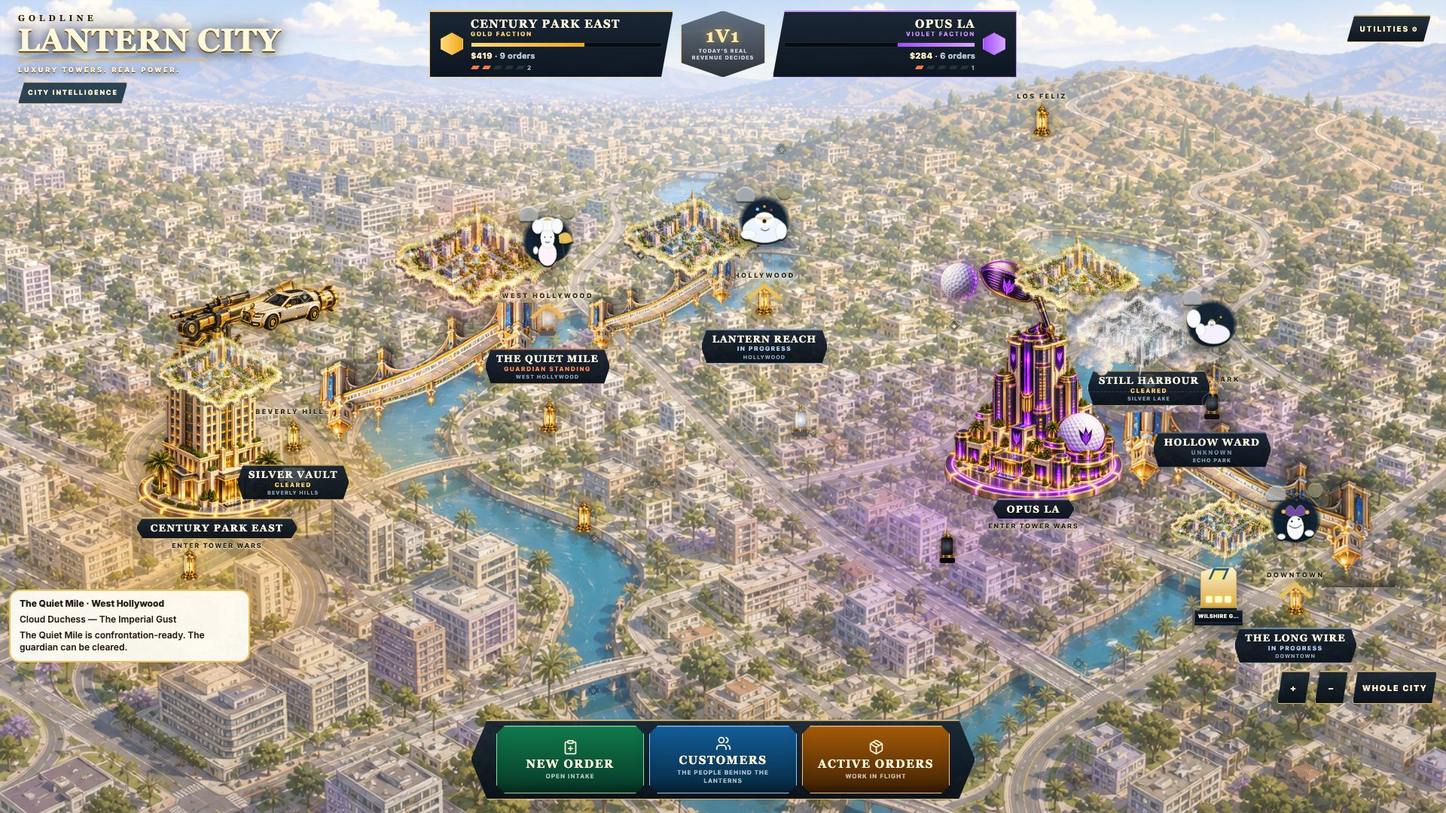
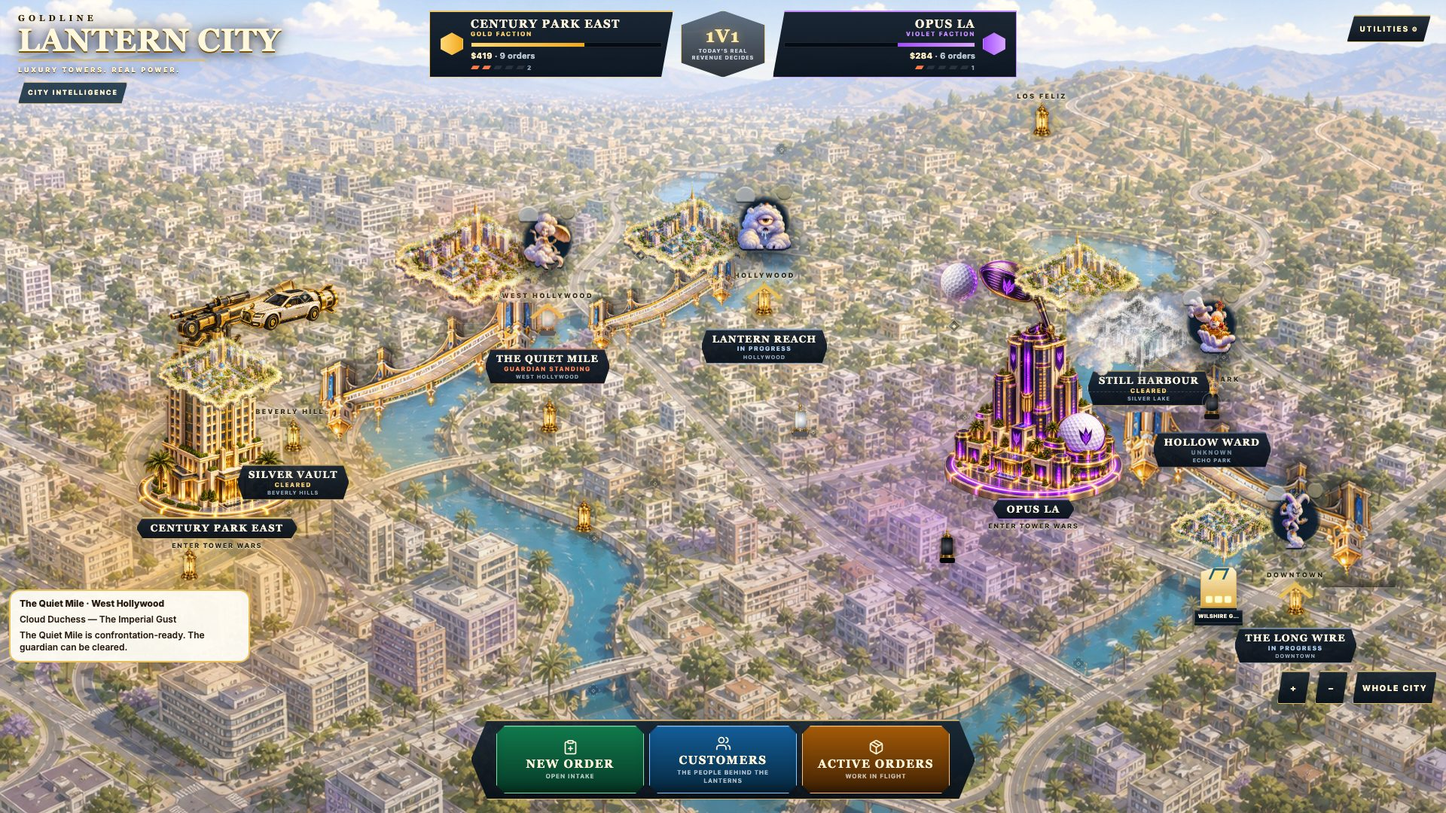
Give the guardians their approved faces
The territory board's ugliest objects were the guardians: hand-rolled SVG
cloud shapes that rendered as black-and-white blobs sitting on top of the
islands. The approved artwork for all six characters was already in the
repo — `guardians/approved-asset-sheet.png`, matching the six ids in
shared/goldlineGuardians.ts — and was referenced by nothing.

Nothing was redrawn or regenerated. The sheet was separated:

- The six figures share cloud edges, so straight-line cuts sliced a
  neighbour's puff off mid-shape. Each boundary is instead a minimum-alpha
  vertical seam found by DP through the window between two label-plate
  centres, so the cut follows the thinnest real gap between figures.
- Fragments left inside a crop that are not attached to the figure are
  dropped by connected-component size. The component pass runs at 1/8
  scale for speed, so its mask is dilated before use — without that the
  silhouettes came out in 8px stair-steps.
- Cropped above y=392 rather than y=398, because the label plates start at
  400 and their top gold edge was bleeding into Thunder King.
- Alpha snapped near-opaque to opaque and near-clear to clear, colour
  untouched. No label plates ship.

They stay ACTORS rather than becoming stills: phase, defeat and ghost
states are still carried on the wrapper, and --look-x / --look-y still
steer the figure as a small parallax drift, which is the one thing the
SVG did that a portrait cannot. A guardian with no portrait renders
[…]

diff --git a/client/src/components/goldline/GuardianActor.tsx b/client/src/components/goldline/GuardianActor.tsx
@@ -1,15 +1,42 @@
 /**
- * Procedural cloud guardian.
+ * Cloud guardian, drawn from the approved artwork.
  *
- * These are animated actors, not portraits. Silhouettes follow the approved
- * Goldline guardian sheet: Thunder King, Cloud Duchess, Sleepy One-Eye,
- * Tiny Emperor, Gust Jester, Drizzle Detective.
+ * WHY THIS STOPPED BEING SVG
+ *
+ * These were hand-rolled SVG cloud shapes standing in for art that already
+ * existed. On the territory board they read as black-and-white blobs — the
+ * ugliest objects on the screen — while the approved sheet with all six
+ * characters sat in the repo, referenced by nothing.
+ *
+ * The portraits below are cut from that sheet
+ * (`guardians/approved-asset-sheet.png`, seam-carved apart along the gaps
+ * between figures, alpha cleaned, no label plates). Nothing was redrawn or
+ * regenerated: this is the approved art, separated.
+ *
+ * They remain ACTORS, not stills. Phase, defeat and ghost states are still
+ * carried by classes on the wrapper, and `--look-x` / `--look-y` still steer
+ * the figure — as a small parallax drift rather than as moving eyeballs, which
+ * is the one thing the SVG could do that a portrait cannot.
  */
 
 import type { CSSProperties } from "react";
 import type { GuardianDefinition, GuardianId } from "@shared/goldlineGuardians";
 import { guardianById } from "@shared/goldlineGuardians";
 import type { GuardianPhase } from "@shared/goldlineGuardianEngine";
+
+/**
+ * The cut portraits, keyed by the same ids `shared/goldlineGuardians.ts`
+ * defines. A guardian with no portrait renders nothing rather than a
+ * substitute, so a missing cut is visible instead of silently wrong.
+ */
+const GUARDIAN_ART: Record<string, string> = {
+  thunder_king: "/assets/goldline/guardians/v1/thunder_king.png",
+  cloud_duchess: "/assets/goldline/guardians/v1/cloud_duchess.png",
+  sleepy_one_eye: "/assets/goldline/guardians/v1/sleepy_one_eye.png",
+  tiny_emperor: "/assets/goldline/guardians/v1/tiny_emperor.png",
+  gust_jester: "/assets/goldline/guardians/v1/gust_jester.png",
+  drizzle_detective: "/assets/goldline/guardians/v1/drizzle_detective.png",
+};
 
 export function GuardianActor({
   guardianId,
@@ -45,14 +72,16 @@ export function GuardianActor({
       } as CSSProperties}
       aria-hidden
     >
-      <svg viewBox="0 0 160 160" className="gl-guardian-svg" role="presentation">
-        {guardian.id === "tiny_emperor" ? <TinyEmperorMark /> : null}
-        {guardian.id === "thunder_king" ? <ThunderKingMark /> : null}
-        {guardian.id === "cloud_duchess" ? <CloudDuchessMark /> : null}
-        {guardian.id === "sleepy_one_eye" ? <SleepyOneEyeMark /> : null}
-        {guardian.id === "gust_jester" ? <GustJesterMark /> : null}
-        {guardian.id === "drizzle_detective" ? <DrizzleDetectiveMark /> : null}
-      </svg>
+      {GUARDIAN_ART[guardian.id] ? (
+        <img
+          className="gl-guardian-art"
+          src={GUARDIAN_ART[guardian.id]}
+          alt=""
+          loading="lazy"
+          decoding="async"
+          draggable={false}
+        />
+      ) : null}
       <span className="gl-guardian-wisps" />
     </div>
   );
@@ -60,124 +89,4 @@ export function GuardianActor({
 
 export function guardianAriaLabel(guardian: GuardianDefinition, phase: string) {
   return `${guardian.name}, ${guardian.epithet}. ${guardian.reducedMotionFallback} Currently ${phase.replace(/_/g, " ")}.`;
-}
-
-function ThunderKingMark() {
-  return (
-    <g className="mark-thunder">
-      <ellipse cx="80" cy="96" rx="52" ry="38" className="cloud-body" />
-      <ellipse cx="46" cy="78" rx="24" ry="20" className="cloud-puff" />
-      <ellipse cx="116" cy="80" rx="26" ry="22" className="cloud-puff" />
-      <path d="M62 34 l10 16 h-8 l16 22 -20 -18 h11 z" className="gold-prop crown" />
-      <path d="M54 62 l16 6 -14 5" className="gold-prop brow" />
-      <path d="M106 62 l-16 6 14 5" className="gold-prop brow" />
-      <circle cx="62" cy="76" r="8" className="eye-white" />
-      <circle cx="98" cy="76" r="8" className="eye-white" />
-      <circle cx="62" cy="76" r="3.6" className="eye-pupil" />
-      <circle cx="98" cy="76" r="3.6" className="eye-pupil" />
-      <path d="M58 94 q22 20 44 0" className="mouth roar" />
-      <ellipse cx="24" cy="112" rx="18" ry="16" className="cloud-fist" />
-      <ellipse cx="136" cy="108" rx="20" ry="17" className="cloud-fist" />
-      <rect x="18" y="118" width="14" height="5" rx="2" className="gold-prop band" />
-      <rect x="128" y="114" width="16" height="5" rx="2" className="gold-prop band" />
-      <path d="M134 82 l10 26" className="gold-prop bolt" />
-    </g>
-  );
-}
-
-function CloudDuchessMark() {
-  return (
-    <g className="mark-duchess">
-      <ellipse cx="80" cy="118" rx="26" ry="34" className="cloud-body dress" />
-      <ellipse cx="80" cy="72" rx="20" ry="30" className="cloud-body face" />
-      <ellipse cx="80" cy="32" rx="32" ry="20" className="cloud-puff hair" />
-      <ellipse cx="52" cy="40" rx="16" ry="20" className="cloud-puff hair" />
-      <ellipse cx="108" cy="38" rx="16" ry="22" className="cloud-puff hair" />
-      <path d="M68 22 q12 -12 24 0" className="gold-prop tiara" />
-      <circle cx="72" cy="70" r="4.2" className="eye-white" />
-      <circle cx="90" cy="70" r="4.2" className="eye-white" />
-      <circle cx="72" cy="70" r="1.8" className="eye-pupil" />
-      <circle cx="90" cy="70" r="1.8" className="eye-pupil" />
-      <path d="M74 84 q6 3 12 0" className="mouth smug" />
-      <path d="M112 64 q32 -22 40 18 q-24 10 -38 4" className="gold-prop parasol" />
-      <line x1="122" y1="78" x2="128" y2="124" className="gold-prop stem" />
-      <ellipse cx="46" cy="108" rx="7" ry="11" className="cloud-puff hand" />
-    </g>
-  );
-}
-
-function SleepyOneEyeMark() {
-  return (
-    <g className="mark-sleepy">
-      <ellipse cx="80" cy="104" rx="62" ry="38" className="cloud-body colossus" />
-      <ellipse cx="34" cy="118" rx="22" ry="14" className="cloud-puff hand" />
-      <ellipse cx="128" cy="108" rx="16" ry="24" className="cloud-puff" />
-      <ellipse cx="80" cy="74" rx="28" ry="20" className="eye-white huge" />
-      <path d="M54 68 q26 22 52 0" className="lid" fill="#d7c9a4" opacity="0.55" />
-      <circle cx="80" cy="80" r="5.5" className="eye-pupil huge" />
-      <path d="M70 102 q12 12 24 0" className="mouth snore" />
-      <circle cx="60" cy="46" r="5" className="bird" />
-      <circle cx="80" cy="38" r="4.2" className="bird two" />
-      <circle cx="100" cy="48" r="3.8" className="bird three" />
-    </g>
-  );
-}
-
-function TinyEmperorMark() {
-  return (
-    <g className="mark-emperor">
-      <ellipse cx="86" cy="108" rx="46" ry="28" className="cloud-fist command-throne" />
-      <ellipse cx="48" cy="96" rx="14" ry="18" className="cloud-puff thumb" />
-      <ellipse cx="28" cy="64" rx="20" ry="26" className="cloud-fist command" />
-      <ellipse cx="80" cy="78" rx="11" ry="10" className="cloud-body tiny" />
-      <path d="M74 66 l6 7 6 -7" className="gold-prop micro-crown" />
-      <circle cx="77" cy="76" r="1.8" className="eye-white" />
-      <circle cx="83" cy="76" r="1.8" className="eye-white" />
-      <circle cx="77" cy="76" r="0.9" className="eye-pupil" />
-      <circle cx="83" cy="76" r="0.9" className="eye-pupil" />
-      <path d="M76 82 h8" className="mouth shout" />
-      <line x1="88" y1="80" x2="104" y2="62" className="gold-prop scepter" />
-      <circle cx="106" cy="60" r="3" className="gold-prop" />
-    </g>
-  );
-}
-
-function GustJesterMark() {
-  return (
-    <g className="mark-jester">
-      <ellipse cx="80" cy="102" rx="24" ry="34" className="cloud-body lanky" />
-      <path d="M48 58 q16 -36 32 -4 q16 -36 32 6 q-16 14 -32 4 q-16 14 -32 -6" className="gold-prop cap" />
-      <circle cx="46" cy="56" r="6" className="gold-prop bell" />
-      <circle cx="114" cy="58" r="6" className="gold-prop bell" />
-      <circle cx="68" cy="82" r="6.5" className="eye-white" />
-      <circle cx="92" cy="80" r="6.5" className="eye-white" />
-      <circle cx="70" cy="84" r="2.8" className="eye-pupil" />
-      <circle cx="90" cy="78" r="2.8" className="eye-pupil" />
-      <path d="M62 96 q18 16 36 -2" className="mouth grin" />
-      <ellipse cx="40" cy="128" rx="11" ry="8" className="cloud-puff" />
-      <ellipse cx="120" cy="118" rx="13" ry="9" className="cloud-puff" />
-    </g>
-  );
-}
-
-function DrizzleDetectiveMark() {
-  return (
-    <g className="mark-detective">
-      <ellipse cx="80" cy="104" rx="36" ry="28" className="cloud-body coat" />
-      <path d="M54 62 h52 l-6 14 h-40 z" className="hat-crown" fill="#8b5a2b" stroke="#5a3a18" />
-      <path d="M44 62 q36 -18 72 0" className="gold-prop brim" fill="none" />
-      <path d="M50 62 h60" className="gold-prop brim" />
-      <circle cx="70" cy="80" r="5" className="eye-white" />
-      <circle cx="90" cy="80" r="5" className="eye-white" />
-      <circle cx="70" cy="80" r="2.2" className="eye-pupil" />
-      <circle cx="90" cy="80" r="2.2" className="eye-pupil" />
-      <path d="M74 92 q6 2 12 -2" className="mouth mutter" />
-      <path d="M86 94 q10 6 14 0" className="gold-prop pipe" fill="none" />
-      <circle cx="120" cy="88" r="13" className="gold-prop glass" fill="none" />
-      <line x1="130" y1="98" x2="142" y2="112" className="gold-prop glass" />
-      <circle cx="62" cy="132" r="3.2" className="drop" />
-      <circle cx="80" cy="138" r="2.6" className="drop" />
-      <circle cx="98" cy="134" r="3.4" className="drop" />
-    </g>
-  );
 }

diff --git a/client/src/components/goldline/goldline-territories.css b/client/src/components/goldline/goldline-territories.css
@@ -15,6 +15,22 @@
 .gl-guardian-anchor .gl-guardian{position:relative;left:auto;top:auto;width:100%;height:100%;transform:none;pointer-events:none}
 .gl-guardian-hit{position:absolute;left:50%;top:22%;width:72px;height:72px;transform:translate(-50%,-50%);border:0;border-radius:50%;background:transparent;cursor:pointer;pointer-events:auto;z-index:8}
 .gl-driver-sky{left:72%;top:12%;width:min(26vw,120px);height:min(26vw,120px);transform:none;z-index:8}
+/*
+  The guardian portrait. Fills its anchor and keeps its own proportions, and
+  drifts very slightly with the look vector so a static image still tracks the
+  operator the way the old SVG eyes did. Transform only, so the drift never
+  triggers layout.
+*/
+.gl-guardian-art{
+  width:100%;height:100%;object-fit:contain;object-position:center bottom;
+  pointer-events:none;user-select:none;-webkit-user-drag:none;
+  transform:translate(calc(var(--look-x,0px) * .55), calc(var(--look-y,0px) * .55));
+  transition:transform .28s ease-out;
+  filter:drop-shadow(0 10px 16px #1b2a3a4d);
+}
+.gl-guardian.is-ghost .gl-guardian-art{opacity:.4;filter:grayscale(.55) drop-shadow(0 6px 12px #1b2a3a33)}
+.gl-guardian.is-defeated .gl-guardian-art{opacity:.32;filter:saturate(.35) brightness(1.12)}
+@media (prefers-reduced-motion:reduce){.gl-guardian-art{transition:none;transform:none}}
 .gl-guardian-svg{width:100%;height:100%;overflow:visible;pointer-events:none}
 .gl-guardian .cloud-body,.gl-guardian .cloud-puff,.gl-guardian .cloud-fist{fill:#f7fbff;stroke:#d7c9a4;stroke-width:1.2}
 .gl-guardian .gold-prop{fill:#e8c15a;stroke:#a67c2a;stroke-width:1}
